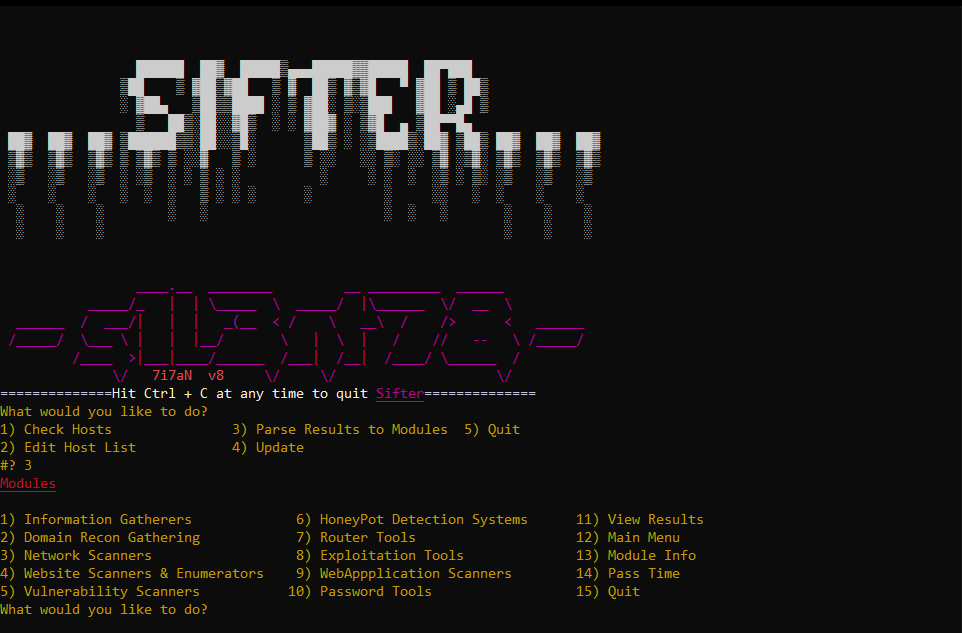
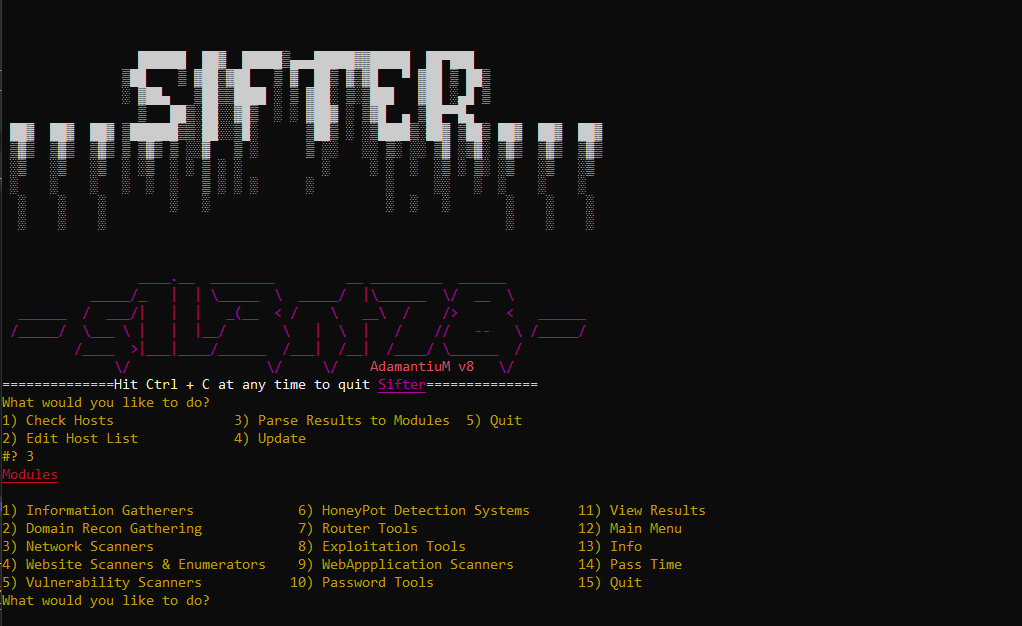
v8

Changed region(s): [[0.0, 0.4553, 0.7173, 0.9712], [0.0, 0.0607, 0.6237, 0.3946], [0.2183, 0.6677, 0.5301, 0.7284]]

diff --git a/extras/ban2.py b/extras/ban2.py
@@ -10,8 +10,7 @@ def showbanner():
   ______  /  ___/|   |  |   _(__  < /    \   __\  /    />      <   ______
  /_____/  \___ \ |   |  |__/       \   |  \  |   /    //   --   \ /_____/
          /____  >|___|____/______  /___|  /__|  /____/ \______  /
-              \/   ''' + CRED + "7i7aN  v8" + CVIOLET + '''     \/     \/                    \/    ''' + CEND)
+              \/                 \/     \/    ''' + CRED + "AdamantiuM v8" + CVIOLET + '''   \/    ''' + CEND)
 
         exit
-
 showbanner()
